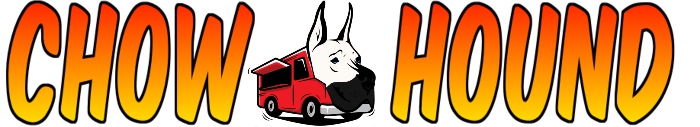
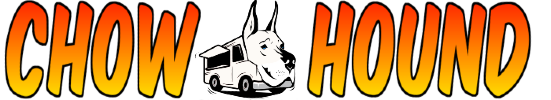
Styling and bug hunting

diff --git a/src/main/resources/templates/partials/partials.html b/src/main/resources/templates/partials/partials.html
@@ -30,7 +30,7 @@
 <!-- This is my standard navbar-->
 <nav th:fragment="navbar" class="navbar navbar-expand-lg navbar-light border-bottom sticky-top">
 
-    <a class="nav-logo" th:href="@{/index}"><img class="navbar-brand" src="/images/chowhound-anothernav.png" alt=""></a>
+    <a class="nav-logo" th:href="@{/index}"><img class="navbar-brand" src="/images/chowhound-navnew3.png" alt=""></a>
     <button class="navbar-toggler" type="button" data-toggle="collapse" data-target="#navbarSupportedContent"
             aria-controls="navbarSupportedContent" aria-expanded="false" aria-label="Toggle navigation">
         <span class="navbar-toggler-icon"></span>
@@ -56,7 +56,7 @@
         <a sec:authorize="isAnonymous()" class="nav-link" href="/login">Login</a>
         <a sec:authorize="isAnonymous()" class="nav-link" href="/register">Register</a>
         <form sec:authorize="isAuthenticated()" th:action="@{/logout}" th:method="post">
-            <a id="logoutButton" class="btn-link btn">Logout</a>
+            <button id="logoutButton" class="btn-link btn logOut" type="submit">Logout</button>
         </form>
         <a sec:authorize="isAuthenticated()" class="nav-link" href="/update_profile">
             <svg class="bi bi-person-fill" width="1em" height="1em" viewBox="0 0 16 16" fill="currentColor"
@@ -68,10 +68,13 @@
     </div>
 </nav>
 
+
+
+</body>
 <!-- Footer -->
 <footer th:fragment="footer">
 
-    <div class="navbar border-top align-items-center fixed-bottom">
+    <div class="navbar border-top align-items-center">
 
         <ul class="navbar-nav m-auto text-center" id="footer-nav">
 
@@ -84,18 +87,16 @@
         </ul>
 
     </div>
-  
-        <!-- Keys -->
-        <script th:src="@{../../js/apiKeys.js}"></script>
-        <!-- JQuery -->
-        <script th:src="@{../../js/jquery-3.5.1.min.js}"></script>
-        <!-- Bootstrap JS -->
-        <script th:src="@{../../js/bootstrap.js}"></script>
+
+    <!-- Keys -->
+    <script th:src="@{../../js/apiKeys.js}"></script>
+    <!-- JQuery -->
+    <script th:src="@{../../js/jquery-3.5.1.min.js}"></script>
+    <!-- Bootstrap JS -->
+    <script th:src="@{../../js/bootstrap.js}"></script>
     <!-- FileStack API -->
     <script src="//static.filestackapi.com/filestack-js/3.x.x/filestack.min.js"></script>
     <!-- Custom JS -->
     <script th:src="@{../../js/chowhound.js}"></script>
 </footer>
-
-</body>
 </html>

diff --git a/src/main/resources/templates/trucks/create.html b/src/main/resources/templates/trucks/create.html
@@ -7,7 +7,7 @@
 <body>
 <nav th:replace="partials/partials :: navbar"></nav>
 <br>
-<div class="container main-cont">
+<div class="container main-cont mb-3">
     <h1>Add a truck!</h1>
     <div th:if="${param.error}">
         Chowhound already knows this truck.
@@ -16,7 +16,7 @@
         <div class="form-group">
 <!--            <input type="number" hidden="hidden" th:value="${truck.id}" th:field="*{id}">-->
 <!--            <label for="username"><strong>Truck's name:</strong></label>-->
-            <input placeholder="Truck name" class="form-control" maxlength="25" id="username" th:field="*{name}" required/>
+            <input placeholder="Truck name" class="form-control" maxlength="25" id="username" th:field="*{name}" required autofocus/>
 
             <textarea placeholder="Enter a little about the truck and the food served." class="form-control" id="description" maxlength="255" type="text" th:field="*{description}" required></textarea>
 
@@ -44,7 +44,7 @@
 
             <label for="ownerCheckbox">Do you own this truck?</label>
             <!-- Checkbox -->
-            <input type="checkbox" id="ownerCheckbox" name="ownerCheckbox" value="true" onchange="if (this.checked === true) {showOwnerRegisterInfo()} else if (this.checked === false ) {hideOwnerRegistrationInfo()}">
+            <input type="checkbox" id="ownerCheckbox" name="ownerCheckbox" onchange="if (this.checked === true) {showOwnerRegisterInfo()} else if (this.checked === false ) {hideOwnerRegistrationInfo()}">
             <input id='ownerHidden' type='hidden' value='false' name='owner'>
             <!-- Owner Additional Info -->
 <!--            <input id="ownerEmail" class="hidden form-control" placeholder="Email Address" type="email">-->
@@ -67,14 +67,14 @@
                     </form>
                 </div>
             </div>
-            <input type="hidden" id="imageURL" name="imageURL">
+            <input type="text" id="imageURL" name="imageURL">
             <br>
             <button class="btn btn-warning" type="submit">Mark it, dude!</button>
         </div>
     </form>
     <br>
 </div>
-<standard_scripts th:replace="partials/partials :: footer"></standard_scripts>
 
 </body>
+<standard_scripts th:replace="partials/partials :: footer"></standard_scripts>
 </html>

diff --git a/src/main/resources/static/css/custom.css b/src/main/resources/static/css/custom.css
@@ -1,5 +1,33 @@
 @import url(https://fonts.googleapis.com/css?family=Roboto:300);
 
+footer {
+    /*position: fixed;*/
+    bottom: 0;
+    width: 100%;
+}
+
+body {
+    height: 100vh;
+}
+
+#viewContainer, #reviewContainer, #indexContainer {
+    background: rgb(207,207,207);
+}
+
+
+h3.card-header, .card-titlecontainer, .card-body {
+    background: rgb(207,207,207);
+}
+
+
+
+textarea {
+    background: #f2f2f2;
+}
+
+form {
+    background: rgb(207,207,207) ;
+}
 
 .btn-secondary {
     border: 1px solid grey !important;
@@ -11,11 +39,11 @@ h1, h2, h3 {
     color: firebrick;
 }
 
-.main-cont a, footer a, nav a, .indexHeader h1 {
+.main-cont a, footer a, nav a, .indexHeader h1, .logOut {
    color: firebrick;
 }
 
-.main-cont a:hover, footer a:hover, nav a:hover {
+.main-cont a:hover, footer a:hover, nav a:hover, .logOut {
     color: #ff1111;
     text-decoration: none;
 }
@@ -40,7 +68,7 @@ h1, h2, h3 {
     color: white !important;
 }
 
-.special:hover {
+.special:hover, #logoutButtonf {
     color: black !important;
 }
 /*.wrapper {*/
@@ -191,20 +219,21 @@ li p {
 /* Registration  & SignIn */
 #signUpContainer, #signInContainer {
     z-index: 1;
-    background: lightgrey;
+    background: rgb(207,207,207);
     border-radius: 10px;
     width: 400px;
-    margin: auto;
+    margin-left: auto;
+    margin-right: auto;
     box-shadow: 0 0 20px 0 rgba(0, 0, 0, 0.2), 0 5px 5px 0 rgba(0, 0, 0, 0.24);
 }
 
-#signInContainer {
-    margin-top: 10em;
-}
+/*#signInContainer {*/
+/*    margin-top: 10em;*/
+/*}*/
 
-#signUpContainer {
-    margin-top: 5em;
-}
+/*#signUpContainer {*/
+/*    margin-top: 5em;*/
+/*}*/
 
 .register-page, .signIn-page {
     position: relative;
@@ -286,7 +315,7 @@ li p {
 }
 
 .navbar{
-    background: #f9f8fa;
+    background: rgb(207,207,207);
 }
 
 #homeBody {

diff --git a/src/main/resources/templates/trucks/update.html b/src/main/resources/templates/trucks/update.html
@@ -46,7 +46,7 @@
             <input id="ownerFacebookUrl" class="form-control" placeholder="Facebook URL" type="url" th:field="*{facebook}">
             <input id="ownerInstagramUrl" class="form-control" placeholder="Instagram URL" type="url" th:field="*{instagram}">
             <input type="hidden" th:field="*{user}">
-            <input type="hidden" th:field="*{dateAdded}">
+<!--            <input type="hidden" th:field="*{dateAdded}">-->
 
             <br>
             <div id="primaryImg">
@@ -54,7 +54,7 @@
                     <form id="pick-form">
                         <div class="field">
                             <div class="control">
-                                <button class="btn btn-success" type="button" id="picker">Change your primary picture</button>
+                                <button class="btn btn-warning" type="button" id="picker">Change your primary picture</button>
                                 <input type="hidden" id="fileupload">
 
                             </div>
@@ -64,7 +64,7 @@
             </div>
             <input type="hidden" id="imageURL" name="imageURL">
             <br>
-            <button class="btn btn-success" type="submit">Groom your truck!</button>
+            <button class="btn btn-warning" type="submit">Groom your truck!</button>
             <button class="btn btn-warning btn-sm" style="color: white" type="submit"
                     formmethod="get"
                     th:formaction="'/posts/'+${truck.id}">Oops...Nevermind

diff --git a/src/main/resources/templates/trucks/review.html b/src/main/resources/templates/trucks/review.html
@@ -9,12 +9,12 @@
 <nav th:replace="partials/partials :: navbar"></nav>
 
 
-<div class="container main-cont">
+<div class="container main-cont mb-3" id="reviewContainer">
     <h1>Bark About This Truck!</h1>
     <form th:action="@{'/reviews/' + ${truck.id} + '/addReview'}" method="post">
 <!--        th:object="${review}"-->
         <label for="reviewText">Speak!</label>
-        <textarea class="form-control" id="reviewText" name="reviewText" type="text" ></textarea>
+        <textarea class="form-control" id="reviewText" name="reviewText" type="text" autofocus></textarea>
 <!--        th:field="*{reviewText}"-->
         <select name="stars" id="stars">
             <option value="1">One Bone</option>
@@ -24,7 +24,7 @@
             <option value="5">Five Bones</option>
         </select>
 <!--        <input type="hidden" name="datestamp" id="datestamp" value="<?php CURDATE(); ?>" th:field="*{datestamp}">-->
-        <input type="submit" class="btn btn-sm btn-success">
+        <input type="submit" class="btn btn-sm btn-warning special">
     </form>
 </div>
 

diff --git a/src/main/resources/templates/index.html b/src/main/resources/templates/index.html
@@ -1,7 +1,7 @@
 <!DOCTYPE html>
 <html lang="en" xmlns:th="http://www.thymeleaf.org">
 <head>
-    <title>Chowhound trucks</title>
+    <title>Chow Hound!</title>
     <div th:replace="partials/partials :: head"></div>
 </head>
 <body>
@@ -12,7 +12,7 @@
 <!--<img class="bgImg" src="/images/fastfood%20bg.jpg" alt="">-->
 
 
-<div class="container main-cont text-center">
+<div class="container main-cont text-center mb-3" id="indexContainer">
 
 
 <br>
@@ -160,7 +160,7 @@
                             </div>
                         </div>
                         <div class="modal-footer">
-                            <button type="button" class="btn btn-info" data-dismiss="modal">Close</button>
+                            <button type="button" class="btn btn-warning" data-dismiss="modal">Close</button>
                         </div>
                     </div>
                 </div>
@@ -171,7 +171,7 @@
 </div>
 
 
-<footer th:replace="partials/partials :: footer"></footer>
 
 </body>
+<footer th:replace="partials/partials :: footer"></footer>
 </html>

diff --git a/src/main/resources/templates/users/update.html b/src/main/resources/templates/users/update.html
@@ -7,7 +7,7 @@
 <body>
 <nav th:replace="partials/partials :: navbar"></nav>
 <br>
-<div class="container main-cont">
+<div class="container main-cont my-3">
     <h1>Change your contact email and/or your password</h1>
     <form th:action="@{/update_profile}" method="POST" th:object="${user}">
         <!--        <label for="username">Username</label>-->
@@ -20,7 +20,7 @@
         <label for="password">Password</label>
         <input id="password" type="password" th:value="${user.password}" th:field="*{password}"/>
         <br>
-        <input class="btn btn-success" value="Save Changes!" type="submit"/><a class="btn btn-danger" th:href="@{/index}"><-Back</a>
+        <input class="btn btn-warning" value="Save Changes!" type="submit"/>      <a class="btn btn-warning" th:href="@{/index}"><-Back</a>
     </form>
     <br>
 </div>

diff --git a/src/main/resources/static/js/chowhound.js b/src/main/resources/static/js/chowhound.js
@@ -110,7 +110,7 @@ if ((window.location.href.indexOf("favorites") > -1) || (window.location.href.in
                     "<div id=\"truck_" + truckId + "_primaryImg\" " +
                     "class=\"carousel-item active mainCarouselImage\">" +
                     "<img class=\"d-block w-100 cardImageFixed\" " +
-                    "src=\"../images/newplaceholder.png\" " +
+                    "src=\"../images/notfound.png\" " +
                     "alt=\"placeholderImg\">" +
                     "</div>"
                 );

diff --git a/src/main/resources/templates/error/4xx.html b/src/main/resources/templates/error/4xx.html
@@ -14,8 +14,8 @@
         </div>
         <div th:case="'Forbidden'">
             <h1>My master says "You don't have permission to view this page."...sorry!</h1>
-            <a class="btn btn-success" href="/login"> Click here to login</a>
-            <a class="btn btn-success" href="/register"> Click here to register</a>
+            <a class="btn btn-warning" href="/login"> Click here to login</a>
+            <a class="btn btn-warning" href="/register"> Click here to register</a>
         </div>
     </th:block>
     <br>

diff --git a/src/main/resources/templates/users/login.html b/src/main/resources/templates/users/login.html
@@ -7,8 +7,8 @@
 <body>
 <div th:replace="partials/partials :: navbar"></div>
 
-<div id="signInContainer">
-    <h1 class="text-center">Log In</h1>
+<div id="signInContainer" class="mt-3 mb-auto">
+    <h1 class="text-center">Login</h1>
     <div class="text-center" th:if="${param.error}">
         Invalid Username and Password.
     </div>
@@ -34,6 +34,6 @@
 </div>
 
 
-<footer th:replace="partials/partials :: footer"></footer>
 </body>
+<footer th:replace="partials/partials :: footer"></footer>
 </html>

diff --git a/src/main/resources/templates/trucks/show.html b/src/main/resources/templates/trucks/show.html
@@ -7,7 +7,7 @@
 <body>
 <nav th:replace="partials/partials :: navbar"></nav>
 
-<div class="container main-cont text-center mt-3">
+<div class="container main-cont text-center my-3" id="viewContainer">
     <br>
     <h2 th:text="${truck.name}"></h2>
     <a class="btn btn-warning special" href="/index"><-Back</a>
@@ -114,7 +114,7 @@
 
 </div>
 
-<footer th:replace="partials/partials :: footer"></footer>
 
 </body>
+<footer th:replace="partials/partials :: footer"></footer>
 </html>

diff --git a/src/main/resources/templates/error/5xx.html b/src/main/resources/templates/error/5xx.html
@@ -9,7 +9,7 @@
     <br>
     <h1>Something went wrong!!</h1>
     <h3>You're never gonna believe this, but there was this cat, and, and...sorry!</h3>
-    <a class="btn btn-success" href="/index">But you can find your way home here.</a>
+    <a class="btn btn-warning" href="/index">But you can find your way home here.</a>
     <br>
     <img width="95%" id="errorImg" src="" alt="dog in cone">
 
